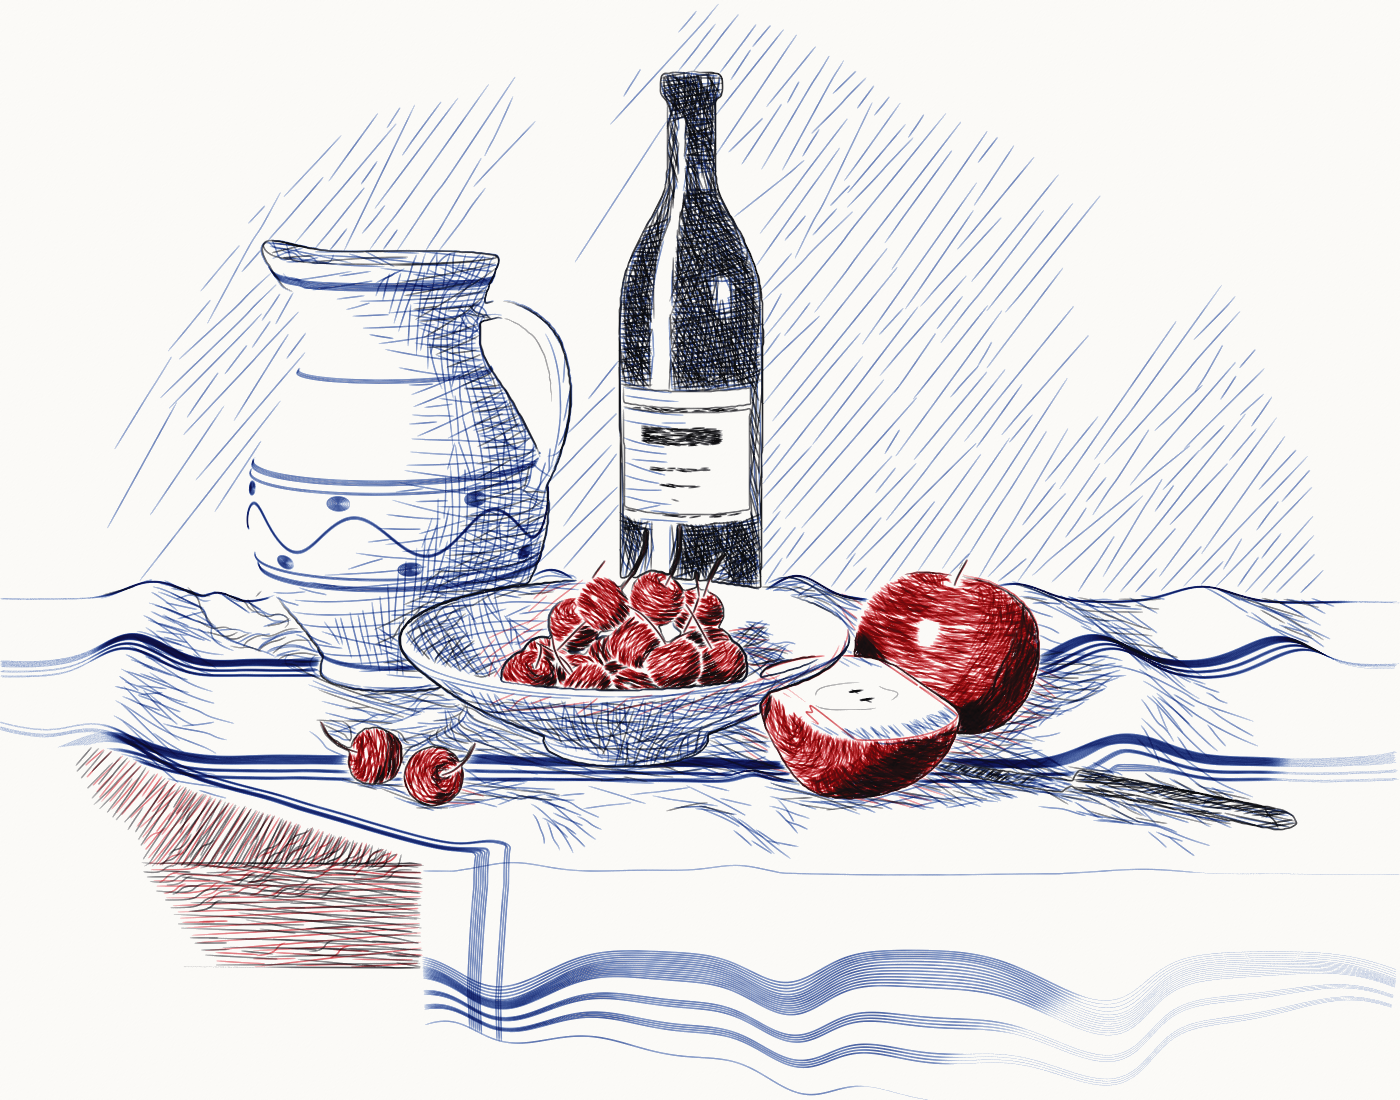
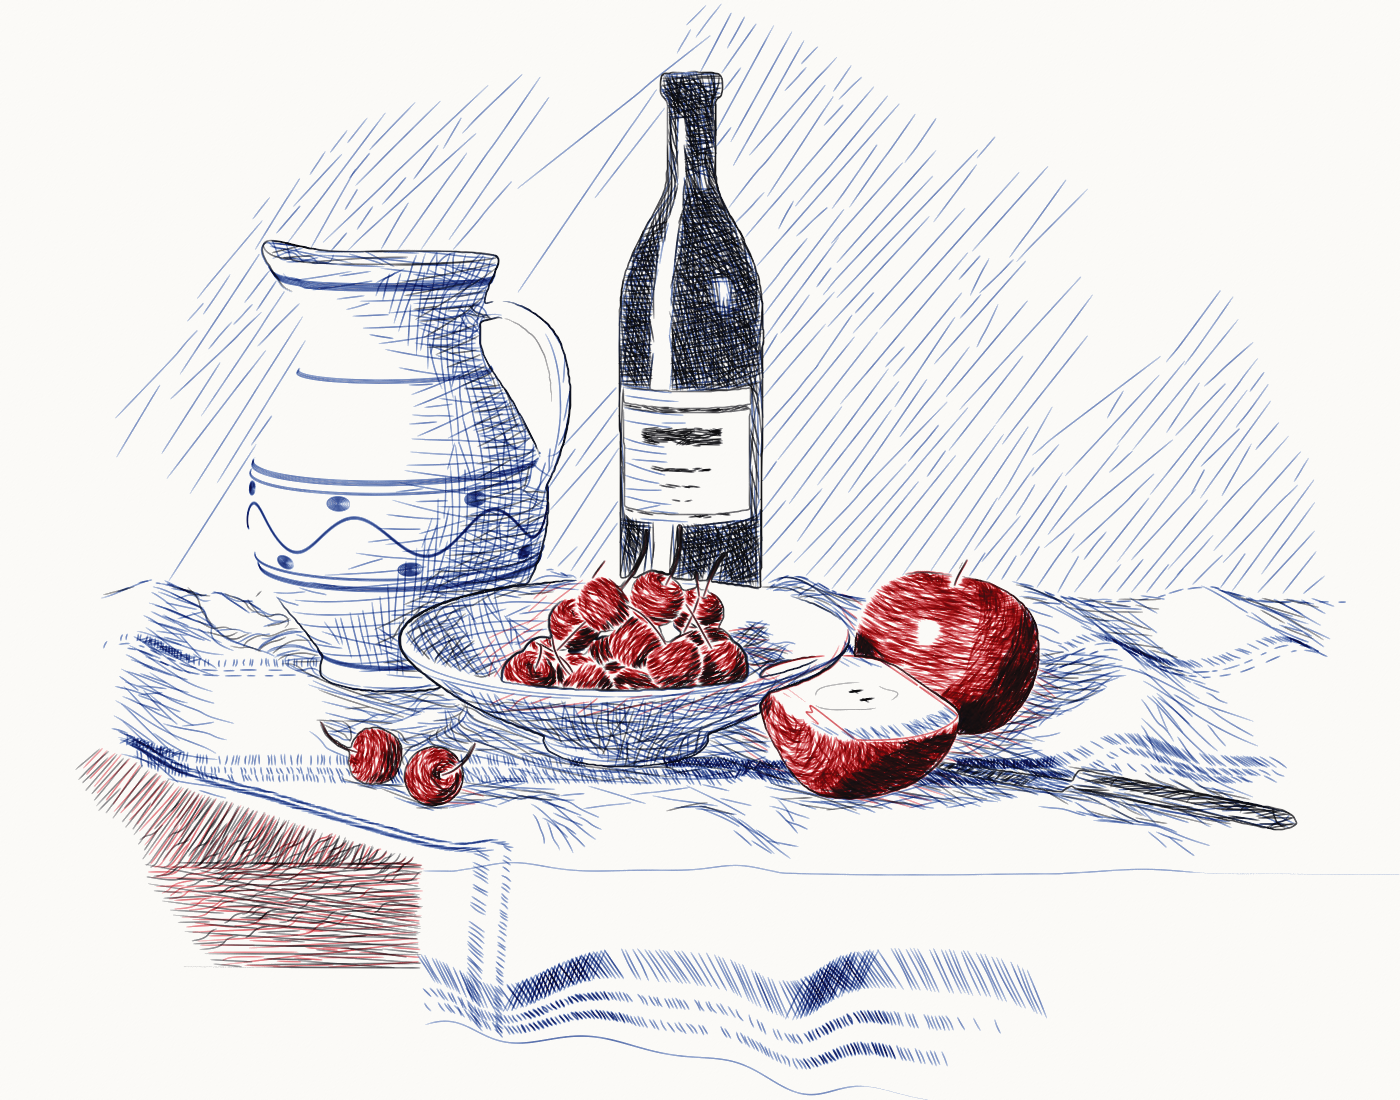
Still life: the cloth's stripes hatched, not ruled
Claude-Session: https://claude.ai/code/session_01EHReoi1LTNPtq461jGULpV

diff --git a/examples/stilllife.py b/examples/stilllife.py
@@ -2104,19 +2104,156 @@ def cloth_line(u, v):
     return cloth_point(u, v - cloth_hem(u, v, length)) + [0, 0.03, 0]
 
 
-def draw_stripes(h: Hatcher):
-    """The cloth's stripes as lines along them, close together, bending
-    over every fold."""
-    u = np.linspace(0, 1, 900)
+@dataclass
+class Band:
+    """A stripe on the cloth: its two edges and its centre, as 3D points
+    sampled at the same places along it, and whether it is a wide one."""
+
+    edge_a: np.ndarray
+    edge_b: np.ndarray
+    centre: np.ndarray
+    wide: bool
+
+
+def cloth_at_x(x, v):
+    """Points of the cloth at a distance v down its length, at the places
+    that lie at x on the table (so that two such lines face each other
+    across a stripe); where x is off the cloth, the nearest edge."""
+    z = np.minimum(CLOTH_BACK + v, TABLE_FRONT)
+    left = np.interp(z, [CLOTH_BACK, TABLE_FRONT], CLOTH_LEFT)
+    u = np.clip((x - left) / (CLOTH_RIGHT - left), 0, 1)
+    return cloth_line(u, np.full_like(u, v))
+
+
+def cloth_bands(n=900):
+    """Every stripe of the cloth: across it, and along its free edge."""
+    out = []
+    x = np.linspace(CLOTH_LEFT[0], CLOTH_RIGHT, n)
     for lo, hi in stripe_bands():
-        for v in np.arange(lo + 0.04, hi, 0.09):
-            surface_line(h, cloth_line(u, np.full_like(u, v)), BLUE, 0.3, 0.55)
+        ea, eb, ec = (cloth_at_x(x, v) for v in (lo, hi, (lo + hi) / 2))
+        out.append(Band(ea, eb, ec, hi - lo > 1.0))
     v = np.linspace(0, cloth_length(), 700)
     z = np.minimum(CLOTH_BACK + v, TABLE_FRONT)
     width = CLOTH_RIGHT - np.interp(z, [CLOTH_BACK, TABLE_FRONT], CLOTH_LEFT)
     for lo, hi in ((2.0, 2.6), (3.2, 3.45)):
-        for uc in np.arange(lo + 0.04, hi, 0.09):
-            surface_line(h, cloth_line(uc / width, v), BLUE, 0.3, 0.55)
+        ea, eb, ec = (cloth_line(uc / width, v) for uc in (lo, hi, (lo + hi) / 2))
+        out.append(Band(ea, eb, ec, False))
+    return out
+
+
+def swell(lo, hi, peak=0.5, ends=0.15):
+    """A pressure that rises from nothing to ``hi`` at ``peak`` and falls."""
+
+    def f(u):
+        rise = min(u / ends, 1.0, (1 - u) / ends)
+        bump = math.exp(-0.5 * ((u - peak) / 0.3) ** 2)
+        return max(rise, 0.0) ** 0.7 * (lo + (hi - lo) * bump)
+
+    return f
+
+
+def band_stroke(h: Hatcher, a, b, t, slant, press):
+    """One short hatch stroke across a band, from edge point ``a`` to edge
+    point ``b``, leaning ``slant`` along the band's direction ``t``, with a
+    ragged overshoot and a slight curve."""
+    rng = h.rng
+    across = b - a
+    w = float(np.linalg.norm(across))
+    if w < 0.5:
+        return
+    unit_across = across / w
+    lean = t * max(w, 11.0) * slant
+    if w < 7.0:  # a narrow band: the stroke reaches a little past it
+        a, b, w = a - unit_across * (3.5 - w / 2), b + unit_across * (3.5 - w / 2), 7.0
+    start = a - unit_across * rng.uniform(0.0, 1.6) - lean / 2
+    end = b + unit_across * rng.uniform(0.0, 1.6) + lean / 2
+    normal = np.array([-(end - start)[1], (end - start)[0]])
+    bow = normal / (np.linalg.norm(normal) + 1e-9) * rng.normal(0, 0.5)
+    pts = [start, (start + end) / 2 + bow, end]
+    h.sheet.stroke([tuple(q) for q in pts], BLUE, swell(0.5 * press, press, 0.5, 0.2))
+
+
+def band_tone(h: Hatcher, xy):
+    """Shade and how far the drawing reaches, at points of a band."""
+    m = h.maps
+    S = sample(m.shade, xy) + 0.5 * (1 - sample(m.shadow, xy))
+    return np.clip(S, 0, 1), sample(m.keep, xy)
+
+
+def hatch_band(h: Hatcher, band: Band, sign, second=False):
+    """Hatch a stripe with short strokes across it, in bundles whose angle
+    and spacing drift; closer and firmer where it is in shadow, sparse and
+    broken where it is lit or the drawing fades."""
+    rng = h.rng
+    line = seen_line(CAMERA, h.maps.dist, band.centre, 0.4)
+    xa, ya, _ = CAMERA.project(band.edge_a)
+    xb, yb, _ = CAMERA.project(band.edge_b)
+    pa, pb, pc = np.stack([xa, ya], 1), np.stack([xb, yb], 1), line[:, :2]
+    seen = line[:, 2] > 0.5
+    arc = np.concatenate([[0], np.cumsum(np.linalg.norm(np.diff(pc, axis=0), axis=1))])
+    S, keep = band_tone(h, pc)
+    pos, n = rng.uniform(0, 3), len(pc)
+    while pos < arc[-1]:
+        slant = sign / math.tan(math.radians(rng.uniform(52, 66)))
+        base_gap = rng.uniform(0.85, 1.2)
+        for _ in range(int(rng.integers(4, 9))):
+            i = min(int(np.searchsorted(arc, pos)), n - 2)
+            dark = S[i] if not second else max(S[i] - 0.25, 0)
+            gap = base_gap * (2.0 + 2.2 * (1 - dark)) * (1 if band.wide else 1.1)
+            pos += gap / max(smoothstep(0.2, 0.7, keep[i]), 0.25)
+            reach = smoothstep(0.2, 0.7, keep[i])
+            if not seen[i] or rng.uniform() > reach or (second and dark < 0.05):
+                continue
+            if rng.uniform() < 0.15 * (1 - dark):  # small gaps of paper on lit ridges
+                continue
+            t = unit_rows(pc[i + 1] - pc[max(i - 1, 0)])
+            press = (0.3 + 0.35 * dark) * (0.6 + 0.4 * reach)
+            band_stroke(h, pa[i], pb[i], t, slant, press * rng.uniform(0.85, 1.15))
+        pos += rng.uniform(0, 2.0)
+
+
+def dash_band(h: Hatcher, band: Band):
+    """A thin stripe seen nearly edge on: a broken line of short, slightly
+    unsteady overlapping dashes, firmer in shadow, sparse where lit."""
+    rng = h.rng
+    line = seen_line(CAMERA, h.maps.dist, band.centre, 0.4)
+    pc, seen = line[:, :2], line[:, 2] > 0.5
+    arc = np.concatenate([[0], np.cumsum(np.linalg.norm(np.diff(pc, axis=0), axis=1))])
+    S, keep = band_tone(h, pc)
+    pos = rng.uniform(0, 6)
+    while pos < arc[-1] - 4:
+        ln = rng.uniform(9, 22)
+        i0 = int(np.searchsorted(arc, pos))
+        i1 = int(np.searchsorted(arc, min(pos + ln, float(arc[-1]))))
+        i1 = max(i1, i0 + 2)
+        reach = smoothstep(0.2, 0.7, keep[i0])
+        lit = 1 - S[i0]
+        pos += ln * rng.uniform(0.85, 1.2) + rng.uniform(1, 7) * lit
+        if not seen[i0:i1].all() or rng.uniform() > reach:
+            continue
+        seg = pc[i0:i1] + rng.normal(0, 0.6, 2)
+        press = (0.3 + 0.35 * S[i0]) * (0.6 + 0.4 * reach) * rng.uniform(0.85, 1.15)
+        step = max(len(seg) // 4, 1)
+        h.sheet.stroke([tuple(q) for q in seg[::step]], BLUE, swell(0.5 * press, press))
+
+
+def band_width(band: Band):
+    xa, ya, _ = CAMERA.project(band.edge_a)
+    xb, yb, _ = CAMERA.project(band.edge_b)
+    return float(np.median(np.hypot(xb - xa, yb - ya)))
+
+
+def draw_stripes(h: Hatcher):
+    """The cloth's stripes as bands of short hatching laid across them,
+    bending over every fold; the wide ones crossed by a second set, the
+    thinnest as broken lines of dashes."""
+    for band in cloth_bands():
+        if band_width(band) < 3.5:
+            dash_band(h, band)
+            continue
+        hatch_band(h, band, 1.0)
+        if band.wide:
+            hatch_band(h, band, -1.0, second=True)
 
 
 # ----------------------------------------------------------- the hatching
